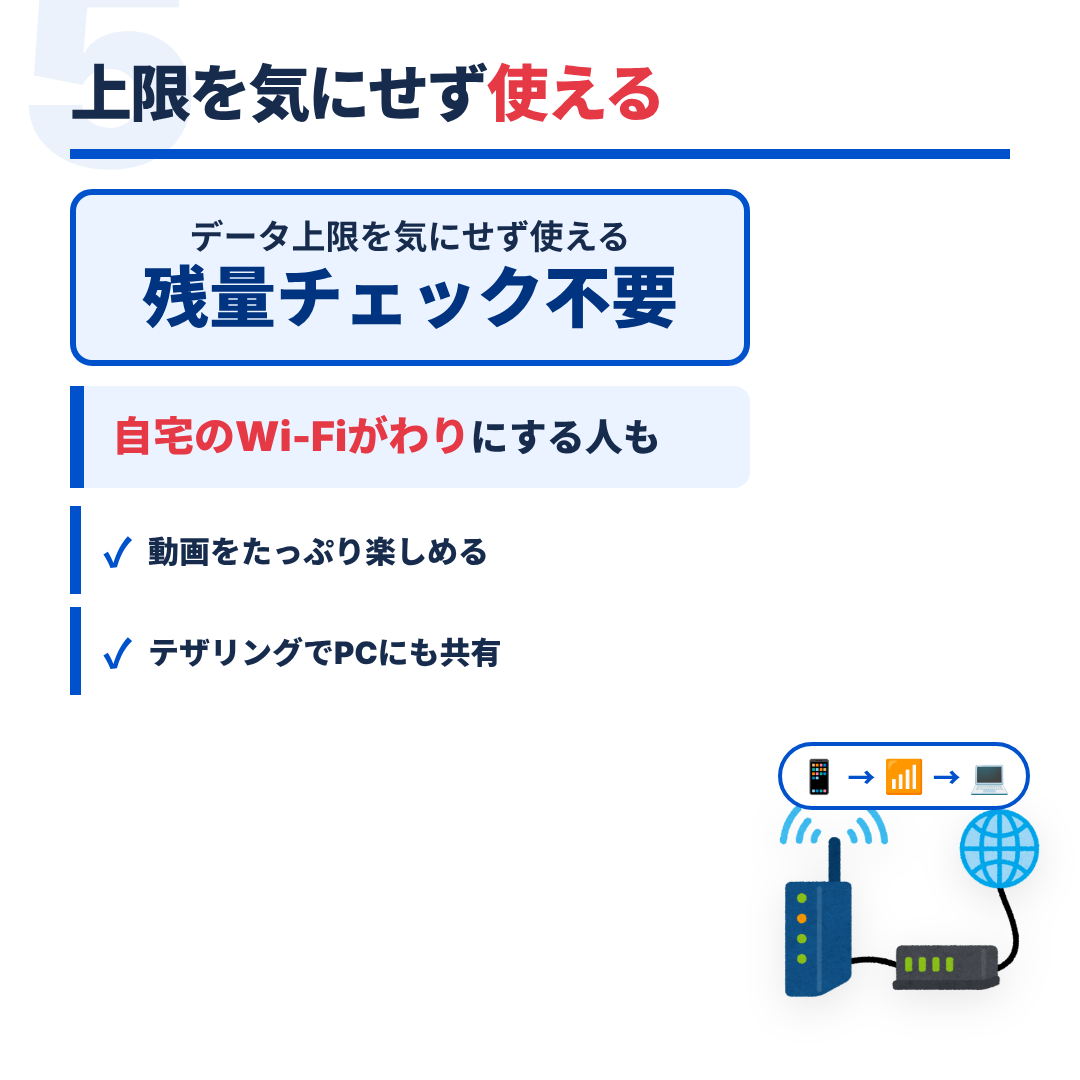
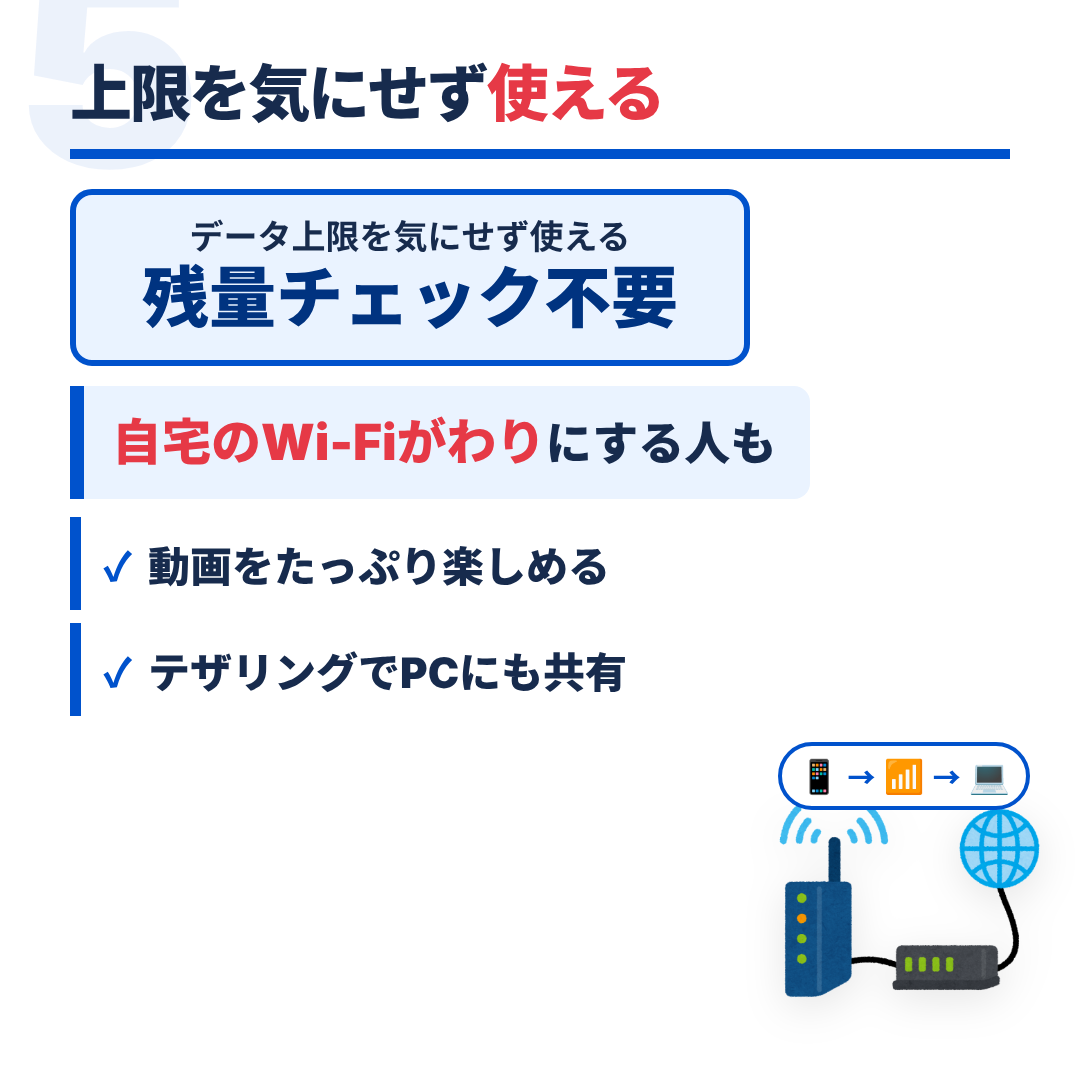
スライド改修

diff --git a/slides-short.html b/slides-short.html
@@ -467,7 +467,7 @@ img {
   border-left: 14px solid var(--blue);
   border-radius: 0 16px 16px 0;
   background: #edf4ff;
-  font-size: 36px;
+  font-size: 48px;
   font-weight: 900;
 }
 
@@ -529,13 +529,13 @@ img {
 }
 
 .wifi-lead {
-  width: 680px;
+  width: 740px;
   margin-bottom: 18px;
   padding: 24px 28px;
   border-left: 14px solid var(--brand);
   border-radius: 0 16px 16px 0;
   background: var(--brand-soft);
-  font-size: 38px;
+  font-size: 46px;
   font-weight: 900;
   line-height: 1.3;
 }
@@ -560,7 +560,7 @@ img {
   border-left: 11px solid var(--brand);
   border-radius: 0 15px 15px 0;
   background: #fff;
-  font-size: 31px;
+  font-size: 42px;
   font-weight: 900;
 }
 
@@ -648,7 +648,7 @@ img {
   gap: 2px;
   margin-bottom: 12px;
   color: #fff;
-  font-size: 35px;
+  font-size: 42px;
   font-weight: 900;
   line-height: 1.22;
 }
@@ -822,7 +822,7 @@ img {
       <strong>月250円〜のmineo</strong>
       <span>＋ povoの2枚持ちも徹底解説</span>
     </div>
-    <img class="cta-banner-img" src="public/images/thumbnails/【2026年最新】格安SIMの無制限プラン比較！最安は月250円_サムネ1.png" alt="格安SIM無制限プラン比較の長尺動画サムネイル">
+    <img class="cta-banner-img" style="margin-top: 24px;" src="public/images/thumbnails/【2026年最新】格安SIMの無制限プラン比較！最安は月250円_サムネ1.png" alt="格安SIM無制限プラン比較の長尺動画サムネイル">
     <div class="cta-arrow">↓</div>
   </div>
 </div>
